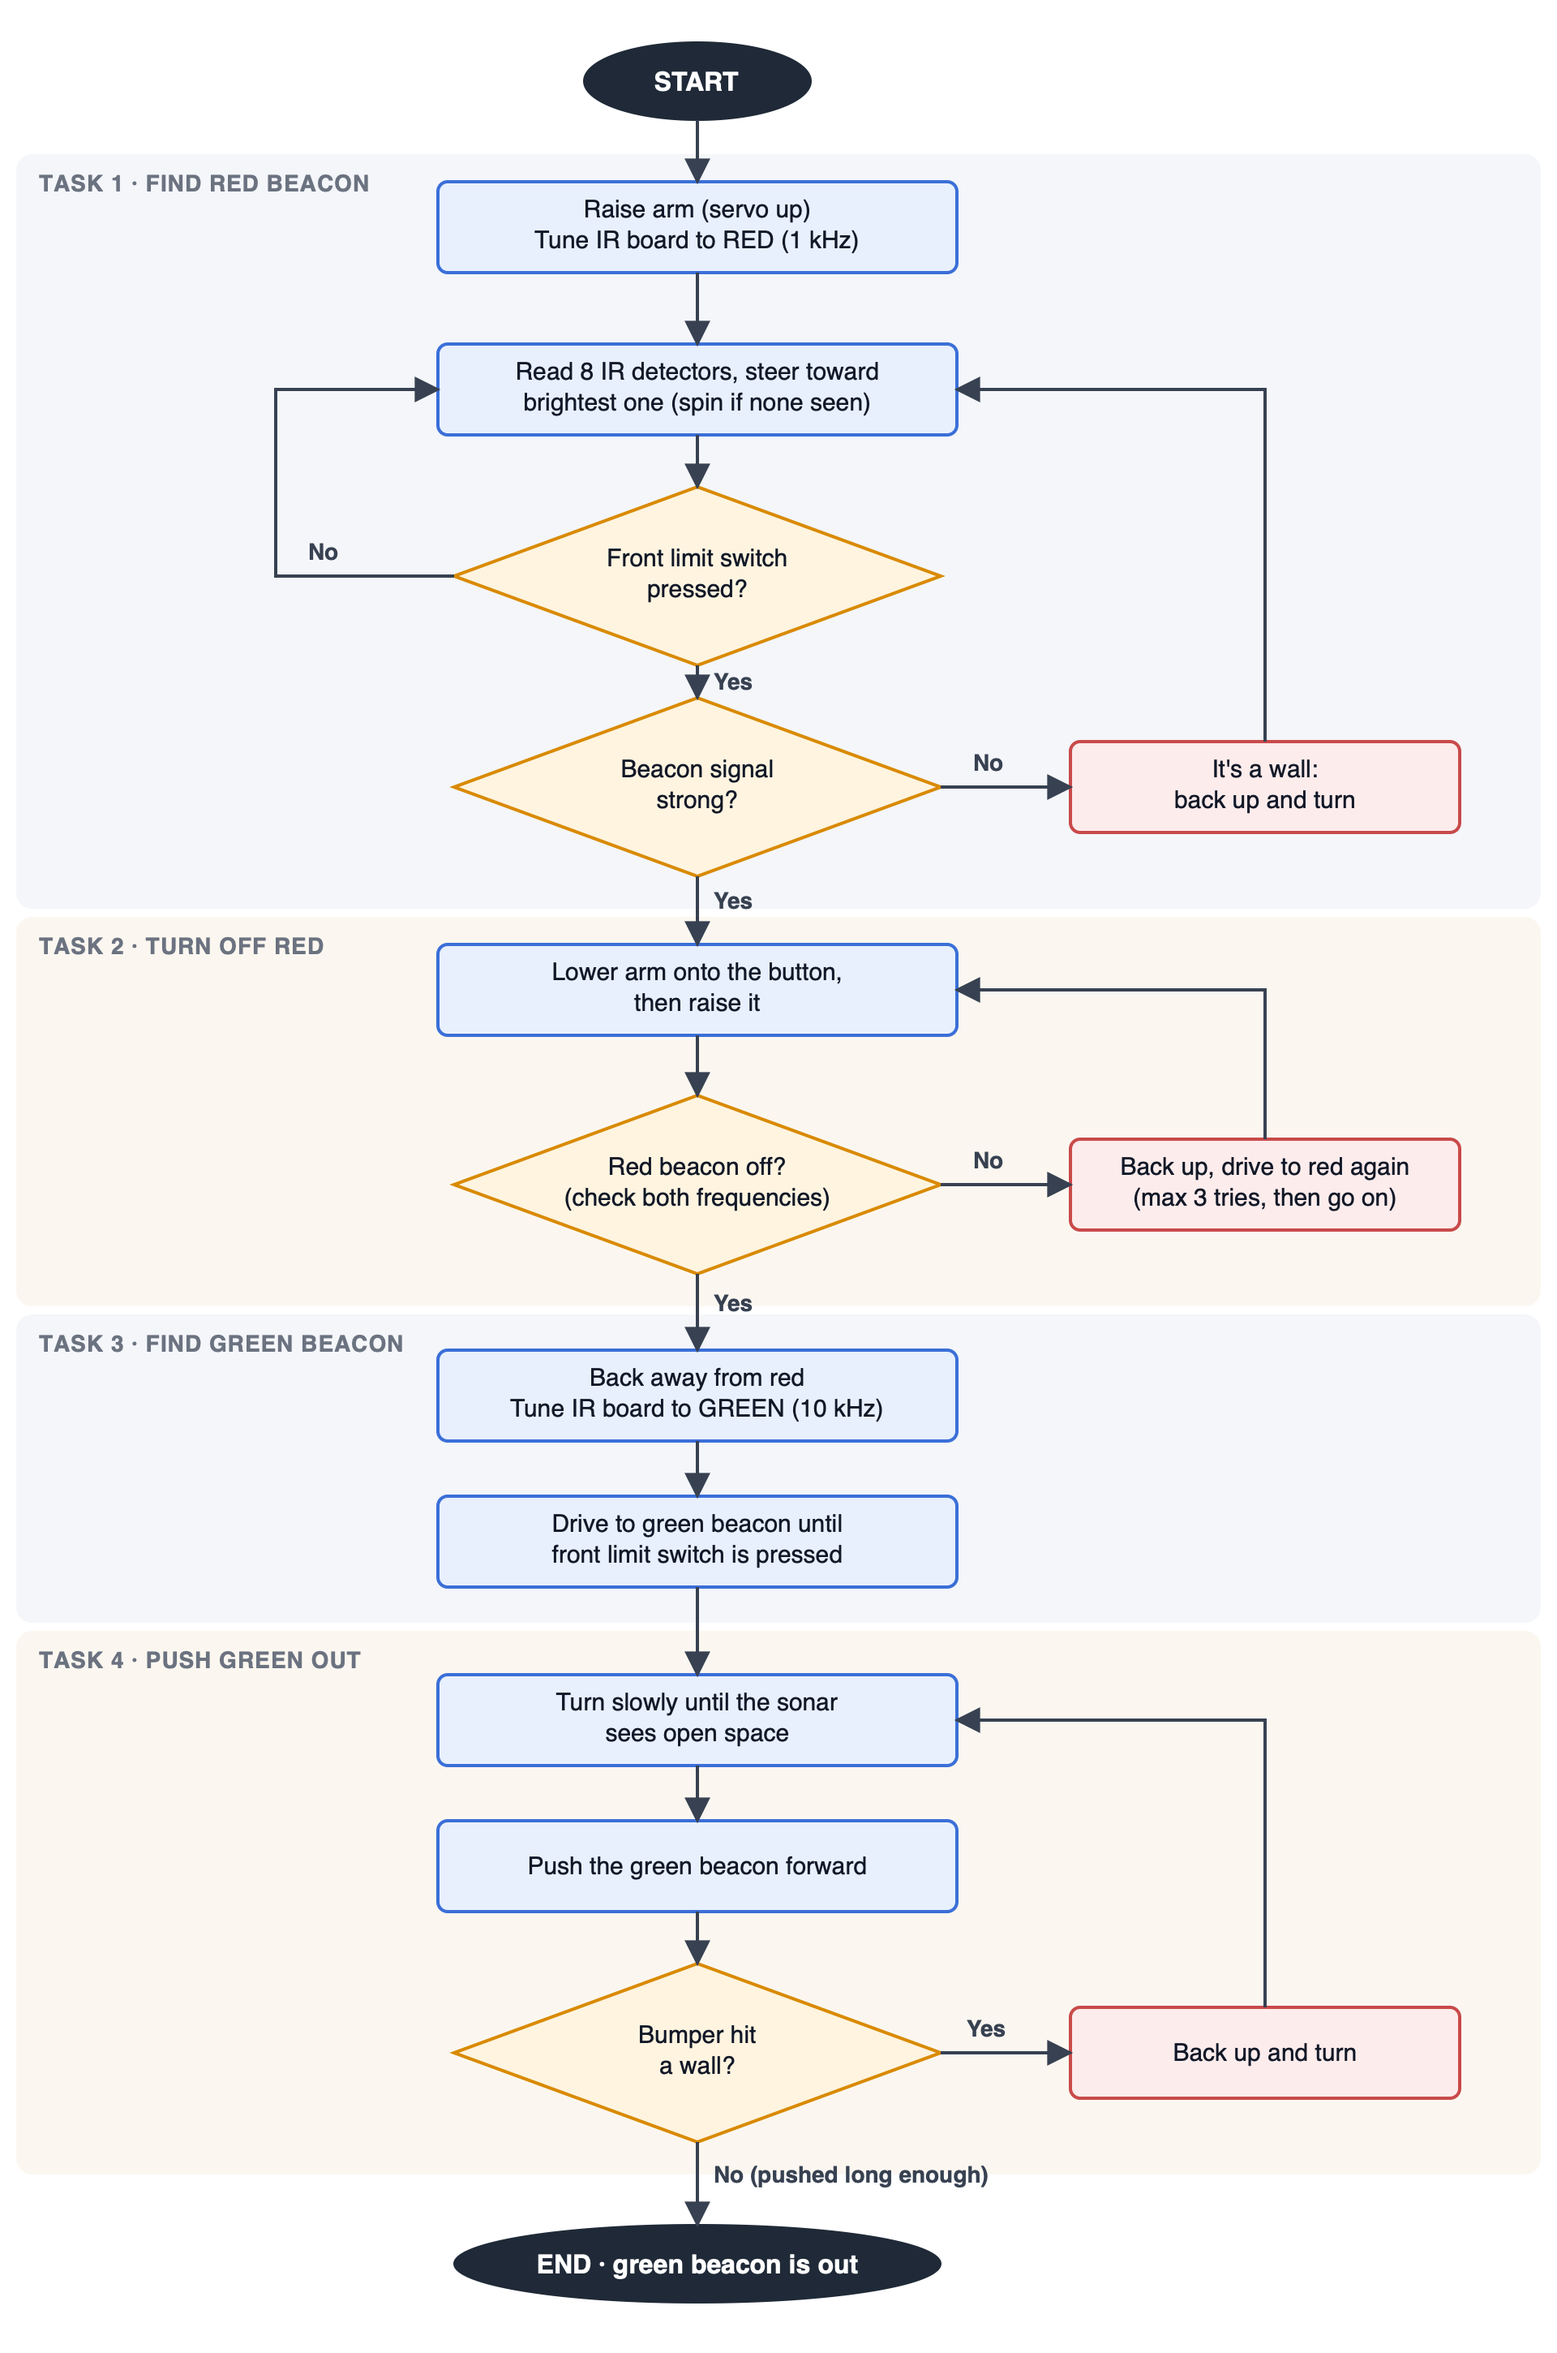
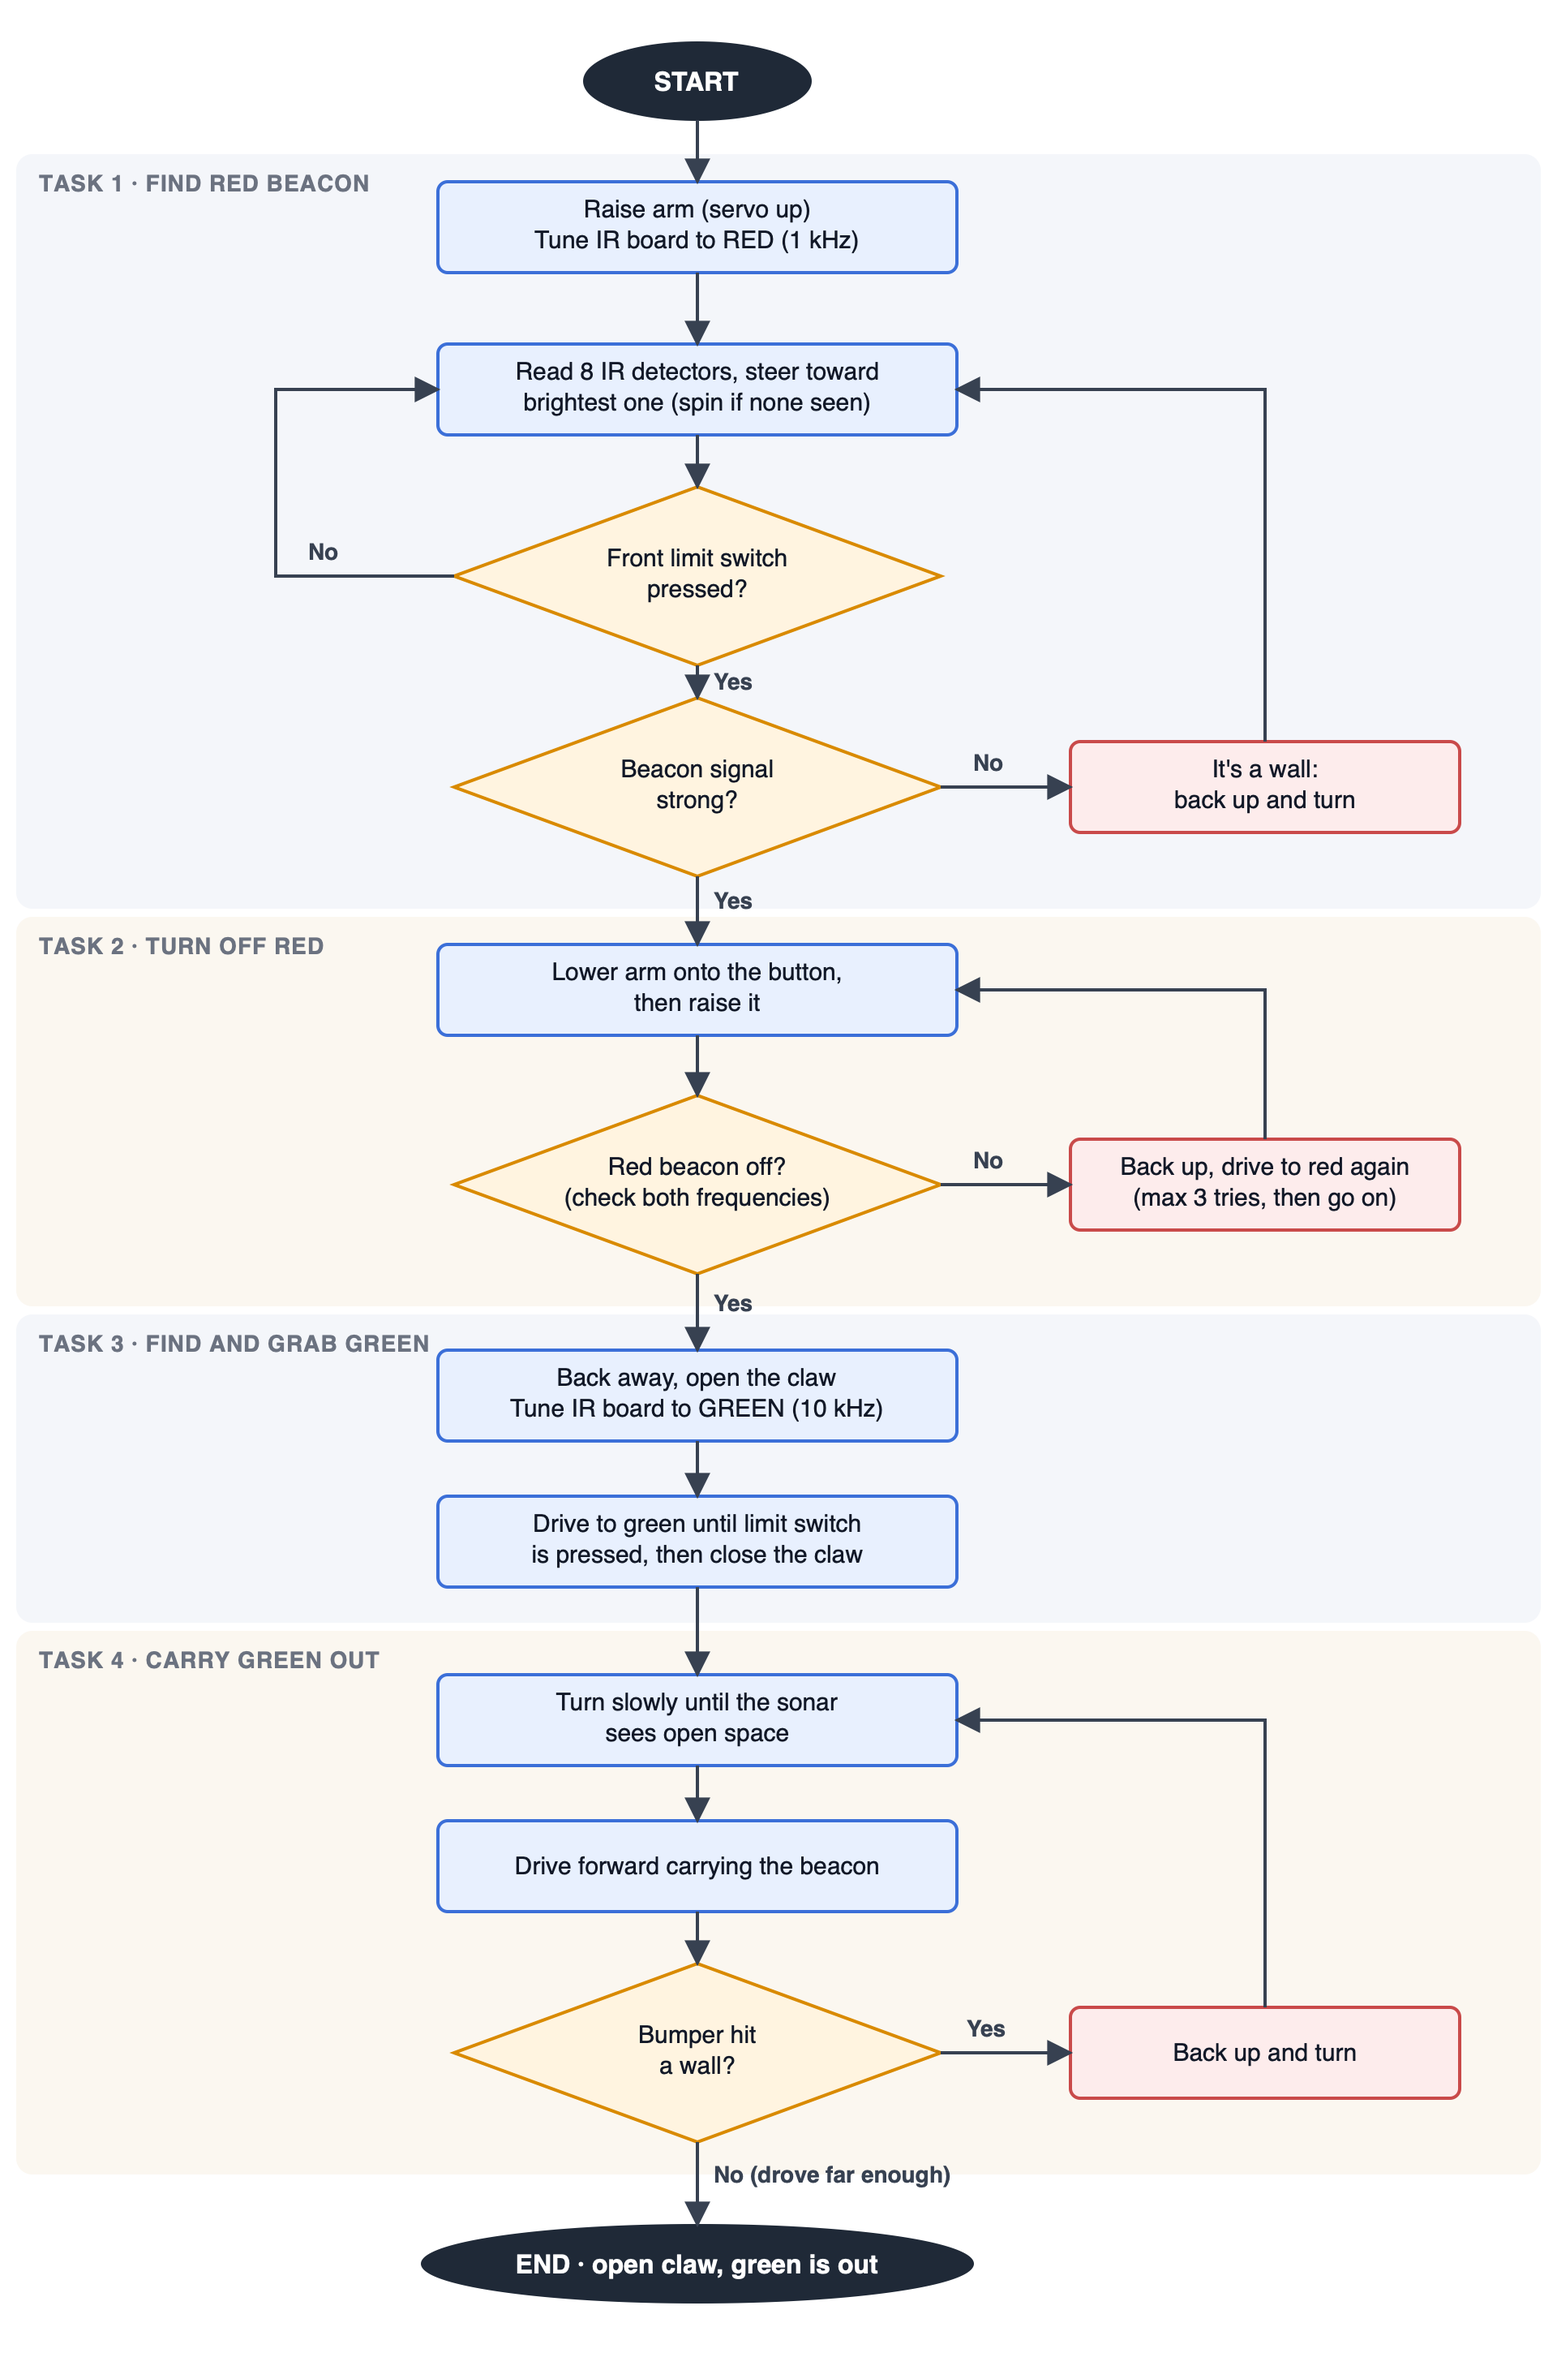
Add claw servo to grab and carry the green beacon
The team added a side-to-side gripper, so Task 4 now closes the claw around the green beacon, carries it out of the arena, and opens it at the end.

diff --git a/robot_project.c b/robot_project.c
@@ -7,6 +7,7 @@
 #pragma config(Sensor, dgtl12, digital12,   sensorDigitalOut)
 #pragma config(Motor,  port1,  rightMotor,  tmotorVex393_HBridge, openLoop, reversed)
 #pragma config(Motor,  port2,  armServo,    tmotorServoStandard, openLoop)
+#pragma config(Motor,  port3,  clawServo,   tmotorServoStandard, openLoop)
 #pragma config(Motor,  port10, leftMotor,   tmotorVex393_HBridge, openLoop, reversed)
 //*!!Code automatically generated by 'ROBOTC' configuration wizard               !!*//
 
@@ -14,14 +15,15 @@
 ENGR 10 Robot Project - full run (based on the GOTO_BEACON sample)
   Task 1: find the red beacon (1 kHz) and stop at it (front limit switch)
   Task 2: swing the arm (rod on a servo) down onto the beacon's push button to turn it off
-  Task 3: find the green beacon (10 kHz)
-  Task 4: push the green beacon out of the arena past the starting line
+  Task 3: find the green beacon (10 kHz) and grab it with the claw
+  Task 4: carry the green beacon out of the arena past the starting line
 
 ASSUMED WIRING - change the #pragma lines above if your robot is different:
   dgtl1  = limit switch on the front, pressed when the robot touches a beacon
   dgtl2  = bumper switch (front/side), pressed when the robot hits a wall
   dgtl3  = ultrasonic sensor ("INPUT" cable in dgtl3, "OUTPUT" cable in dgtl4)
   port2  = arm servo (through a Motor Controller 29)
+  port3  = claw servo, the side-to-side gripper that holds the green beacon (through a Motor Controller 29)
   dgtl10-12 and in1 = IR receiver board, same as the sample program
 */
 
@@ -36,10 +38,15 @@ int arm_up_pos = 127;       // arm raised, out of the way (swap the two values i
 int arm_down_pos = -60;     // arm lowered far enough to press the beacon's button
 int arm_move_time = 600;    // ms for the servo to reach a new position
 
+// Claw servo tuning - adjust these on the real robot
+int claw_open_pos = 127;    // claw wide open, so the green beacon fits between the jaws
+int claw_closed_pos = -40;  // claw closed around the green beacon (swap with open if it moves the wrong way)
+int claw_move_time = 600;   // ms for the claw to reach a new position
+
 // Task 4 tuning
 int open_distance = 150;    // cm; a sonar reading farther than this means "open side of the arena"
 int push_time = 4000;       // ms to drive forward pushing the green beacon out
-int turn_with_beacon_speed = 30; // slower turning so the green beacon doesn't slip out of the scoop
+int turn_with_beacon_speed = 30; // slower turning so the green beacon doesn't slip out of the claw
 
 int Expose_and_read(){
 	SensorValue[digital11] = 1; // close the shutter, clear the film, and increment the counter
@@ -183,11 +190,15 @@ void TurnOffRedBeacon(){
 	}
 }
 
-/*Task 4: find the open side of the arena with the sonar and push the green beacon out.
+void SetClaw(int position){
+	motor[clawServo] = position;
+	delay(claw_move_time);
+}
+
+/*Task 4: find the open side of the arena with the sonar and carry the green beacon out (the claw holds it).
 Bumper hits mean a wall, so back up, turn and look again.
-MECHANICAL NOTE: the robot turns in place here, so the front needs a U-shaped scoop that keeps the beacon
-in front while turning, and the sonar must be mounted ABOVE the beacon so it sees over it (otherwise it
-only ever sees the beacon a few cm away).*/
+MECHANICAL NOTE: the sonar must be mounted ABOVE the beacon so it sees over it (otherwise it only ever
+sees the beacon a few cm away).*/
 void PushGreenOut(){
 	while(true){
 		// turn slowly until the sonar sees open space (-1 means no echo, i.e. nothing in range)
@@ -233,9 +244,9 @@ task main(){
 	slow_speed = 25;
 	spin_speed = 50;
 
-	// keep the arm up while driving
+	// keep the arm up and the claw closed (out of the way) while driving
 	motor[armServo] = arm_up_pos;
-	delay(arm_move_time);
+	SetClaw(claw_closed_pos);
 
 	// Task 1: go to the red beacon and stop
 	GoToBeacon(0);
@@ -248,11 +259,13 @@ task main(){
 	delay(800);
 	StopDrive();
 
-	// Task 3: go to the green beacon
+	// Task 3: open the claw, drive to the green beacon, and grab it
+	SetClaw(claw_open_pos);
 	GoToBeacon(1);
+	SetClaw(claw_closed_pos);
 
-	// Task 4: push the green beacon out of the arena
+	// Task 4: carry the green beacon out of the arena, then let go
 	PushGreenOut();
-
 	StopDrive();
+	SetClaw(claw_open_pos);
 }

diff --git a/README.md b/README.md
@@ -1,6 +1,6 @@
 # ENGR 10 Robot Project
 
-ROBOTC programs for the VEX Cortex robot in the ENGR 10 robot project: turn off the red IR beacon, then push the green IR beacon out of the arena.
+ROBOTC programs for the VEX Cortex robot in the ENGR 10 robot project: turn off the red IR beacon, then carry the green IR beacon out of the arena.
 
 ROBOTC setup: Robot → Platform Type → VEX 2.0 Cortex, Natural Language PLTW; communication mode USB Only.
 
@@ -29,9 +29,10 @@ All Week 1 programs use the motor on port 1; the servo check assumes the servo o
 | dgtl2 | Bumper switch |
 | dgtl3–4 | Ultrasonic sensor (INPUT in dgtl3, OUTPUT in dgtl4) |
 | port1 / port10 | Right / left drive motors |
-| port2 | Arm servo (the rod on top; via Motor Controller 29) |
+| port2 | Arm servo (the rod on top that presses the red beacon's button; via Motor Controller 29) |
+| port3 | Claw servo (side-to-side gripper that holds the green beacon; via Motor Controller 29) |
 
-Tune the arm servo positions and Task 4 values at the top of `robot_project.c` on the real robot.
+Tune the arm and claw servo positions and Task 4 values at the top of `robot_project.c` on the real robot.
 
 ## Program logic flow
 
